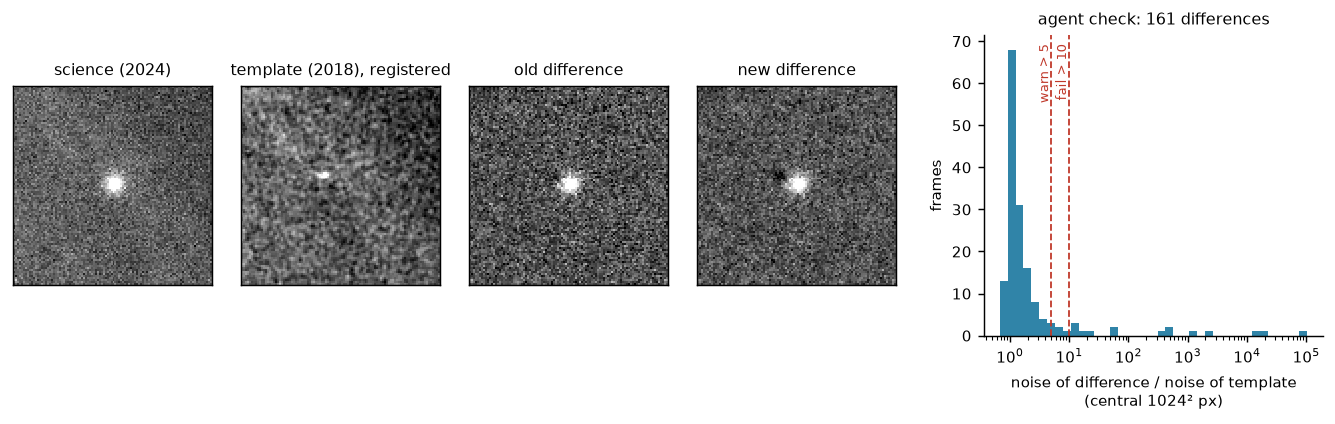
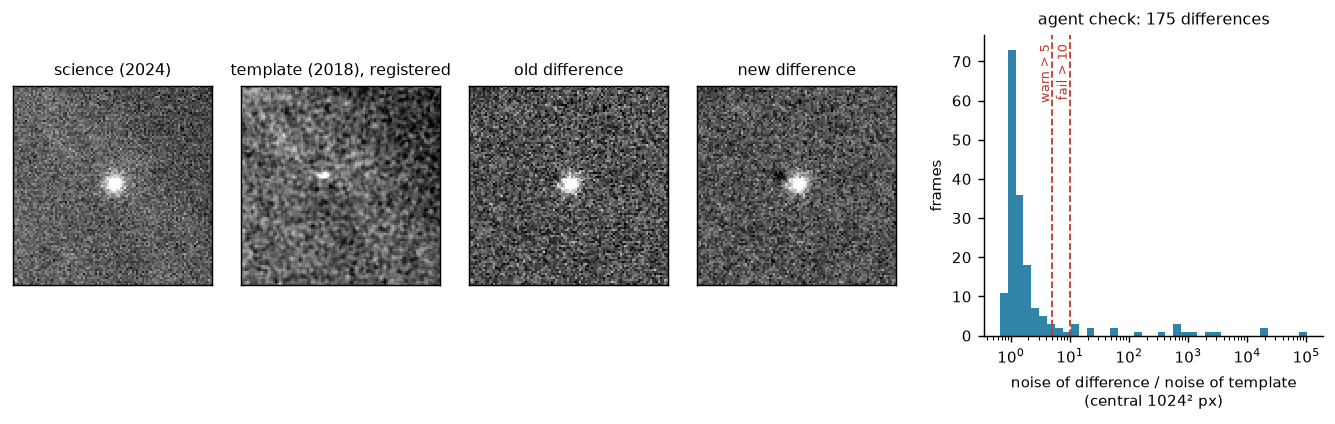
Stage report: full-season figures; option-test products (.zp/.cut) excluded in all comparison tools

diff --git a/docs/stages.html b/docs/stages.html
@@ -60,7 +60,7 @@ whole season. Every figure is made from the products on disk by <code>tools/stag
 <h3>How the agent checks it</h3><div class=wrap><table><tr><th>check</th><th>limit</th><th>if it fails</th></tr><tr><td>calibration stars kept after clipping</td><td>≥ 5</td><td>warn → review; frame not calibrated if none</td></tr></table></div>
 </section><section id=diff><h2>Image subtraction</h2><p class=what>Subtract a pre-explosion template so only the supernova is left.</p>
 <div class=cmp><div><span class=tag>old</span>IRAF geomap + gregister, then PyZOGY</div><div><span class="tag new">new</span>flux-conserving reprojection, then the same PyZOGY (bad-pixel fill 60× faster)</div></div>
-<p class=agree>SN aperture mag on differences +0.005 ± 0.027 mag (n=92). The noise check finds 15 of 161 new differences failed (PyZOGY's flux-scale fit); of the 8 such frames in the subset, the old pipeline also has no magnitude for 7. Failed frames are dropped from the light curve; the zero-point flux scale (<code>--gain zeropoint</code>) is being tested on them.</p>
+<p class=agree>SN aperture mag on differences +0.005 ± 0.027 mag (n=92). The noise check finds 19 of 175 new differences failed (PyZOGY's flux-scale fit); of the 8 such frames in the subset, the old pipeline also has no magnitude for 7. Failed frames are dropped from the light curve; the zero-point flux scale (<code>--gain zeropoint</code>) is being tested on them.</p>
 <figure><img src="report/stages/diff.png" alt="Image subtraction: old vs new and agent check" loading=lazy>
 <figcaption>Left: old vs new. Right: what the agent checks on every frame (dashed red = gate).</figcaption></figure>
 <h3>How the agent checks it</h3><div class=wrap><table><tr><th>check</th><th>limit</th><th>if it fails</th></tr><tr><td>noise of difference / noise of template</td><td>≤ 10 (warn > 5)</td><td>fail: the flux-scale fit went wrong (seen: 20×)</td></tr><tr><td>masked fraction</td><td>≤ 50 %</td><td>warn</td></tr></table></div>
@@ -72,7 +72,7 @@ whole season. Every figure is made from the products on disk by <code>tools/stag
 <h3>How the agent checks it</h3><div class=wrap><table><tr><th>check</th><th>limit</th><th>if it fails</th></tr><tr><td>difference mag − unsubtracted mag</td><td>≥ −0.2 mag</td><td>fail: the SN cannot be brighter after removing the galaxy</td></tr></table></div>
 </section><section id=getmag><h2>Light curve</h2><p class=what>Collect all points into the light curve.</p>
 <div class=cmp><div><span class=tag>old</span>getmag; a person looks at the plot (<code>--show</code>)</div><div><span class="tag new">new</span>getmag + automatic outlier flags; CSV + ECSV with frame names</div></div>
-<p class=agree>140 points; 4 flagged for review</p>
+<p class=agree>152 points; 5 flagged for review</p>
 <figure><img src="report/stages/getmag.png" alt="Light curve: old vs new and agent check" loading=lazy>
 <figcaption>Left: old vs new. Right: what the agent checks on every frame (dashed red = gate).</figcaption></figure>
 <h3>How the agent checks it</h3><div class=wrap><table><tr><th>check</th><th>limit</th><th>if it fails</th></tr><tr><td>deviation from running median (±1.5 d, same band)</td><td>≤ max(5σ, 5×error, 0.1 mag)</td><td>flagged, kept in the table for review</td></tr></table></div>

diff --git a/tools/stage_report.py b/tools/stage_report.py
@@ -30,7 +30,7 @@ plt.rcParams.update({'font.size': 8.5, 'axes.titlesize': 9, 'axes.spines.top': F
 def qa_records(new_run, stage, diff):
     out = []
     for f in glob.glob(str(Path(new_run) / 'data' / '*' / '*' / f'*.{stage}.qa.json')):
-        if ('.diff.' in Path(f).name) != diff:
+        if ('.diff.' in Path(f).name) != diff or any(t in Path(f).name for t in ('.zp.', '.cut.')):
             continue
         try:
             out.append(json.load(open(f)))
@@ -375,6 +375,8 @@ def main():
     out = Path(a.out)
     out.mkdir(parents=True, exist_ok=True)
     old, new = load(a)
+    # option-test products (.zp = --gain zeropoint, .cut = --region cutout) are not part of the reduction
+    new = {k: v for k, v in new.items() if not any(t in k for t in ('.zp.diff', '.cut.diff'))}
     sj = out / 'stages.json'
     res = json.loads(sj.read_text()) if a.only and sj.exists() else {}
     for name, fn in (('cosmic', fig_cosmic), ('wcs', fig_wcs), ('psf', fig_psf), ('psfmag', fig_psfmag),

diff --git a/tools/visual_compare.py b/tools/visual_compare.py
@@ -35,7 +35,8 @@ def load(args):
     old = {r['filename']: dict(zip(o.colnames, r)) for r in o}
     c = sqlite3.connect(Path(args.new_run) / 'snpipe.sqlite')
     c.row_factory = sqlite3.Row
-    new = {r['filename']: dict(r) for r in c.execute('select * from photlco')}
+    new = {r['filename']: dict(r) for r in c.execute('select * from photlco')
+           if not any(t in r['filename'] for t in ('.zp.diff', '.cut.diff'))}  # option-test products
     return old, new
 
 

diff --git a/tools/compare.py b/tools/compare.py
@@ -44,7 +44,8 @@ def old_rows(csv):
 def new_rows(db):
     c = sqlite3.connect(db)
     c.row_factory = sqlite3.Row
-    return {r['filename']: dict(r) for r in c.execute('select * from photlco')}
+    return {r['filename']: dict(r) for r in c.execute('select * from photlco')
+            if not any(t in r['filename'] for t in ('.zp.diff', '.cut.diff'))}  # option-test products
 
 
 def paired(old, new, col, filetype=None):

diff --git a/docs/report/stages.md b/docs/report/stages.md
@@ -136,7 +136,7 @@ Subtract a pre-explosion template so only the supernova is left.
 | **old** | IRAF geomap + gregister, then PyZOGY |
 | **new** | flux-conserving reprojection, then the same PyZOGY (bad-pixel fill 60× faster) |
 
-> SN aperture mag on differences +0.005 ± 0.027 mag (n=92). The noise check finds 15 of 161 new differences failed (PyZOGY's flux-scale fit); of the 8 such frames in the subset, the old pipeline also has no magnitude for 7. Failed frames are dropped from the light curve; the zero-point flux scale (`--gain zeropoint`) is being tested on them.
+> SN aperture mag on differences +0.005 ± 0.027 mag (n=92). The noise check finds 19 of 175 new differences failed (PyZOGY's flux-scale fit); of the 8 such frames in the subset, the old pipeline also has no magnitude for 7. Failed frames are dropped from the light curve; the zero-point flux scale (`--gain zeropoint`) is being tested on them.
 
 ![Image subtraction](stages/diff.png)
 
@@ -183,7 +183,7 @@ Collect all points into the light curve.
 | **old** | getmag; a person looks at the plot (`--show`) |
 | **new** | getmag + automatic outlier flags; CSV + ECSV with frame names |
 
-> 140 points; 4 flagged for review
+> 152 points; 5 flagged for review
 
 ![Light curve](stages/getmag.png)
 

diff --git a/docs/report/README.md b/docs/report/README.md
@@ -120,7 +120,7 @@ Each was found by comparing with IRAF on real frames, which is why the compariso
 
 ## 6b. Found while making the stage report
 
-* 15 of 161 new difference images fail the noise gate (difference noise > 10× template noise: PyZOGY's flux-scale
+* 19 of 175 new difference images fail the noise gate (difference noise > 10× template noise: PyZOGY's flux-scale
   fit failed). The gate was added after this batch started, so it was recomputed from the products. In the subset,
   the old pipeline also has no magnitude for 7 of the 8 such frames. Most were already caught by the
   "difference brighter than unsubtracted" gate.
